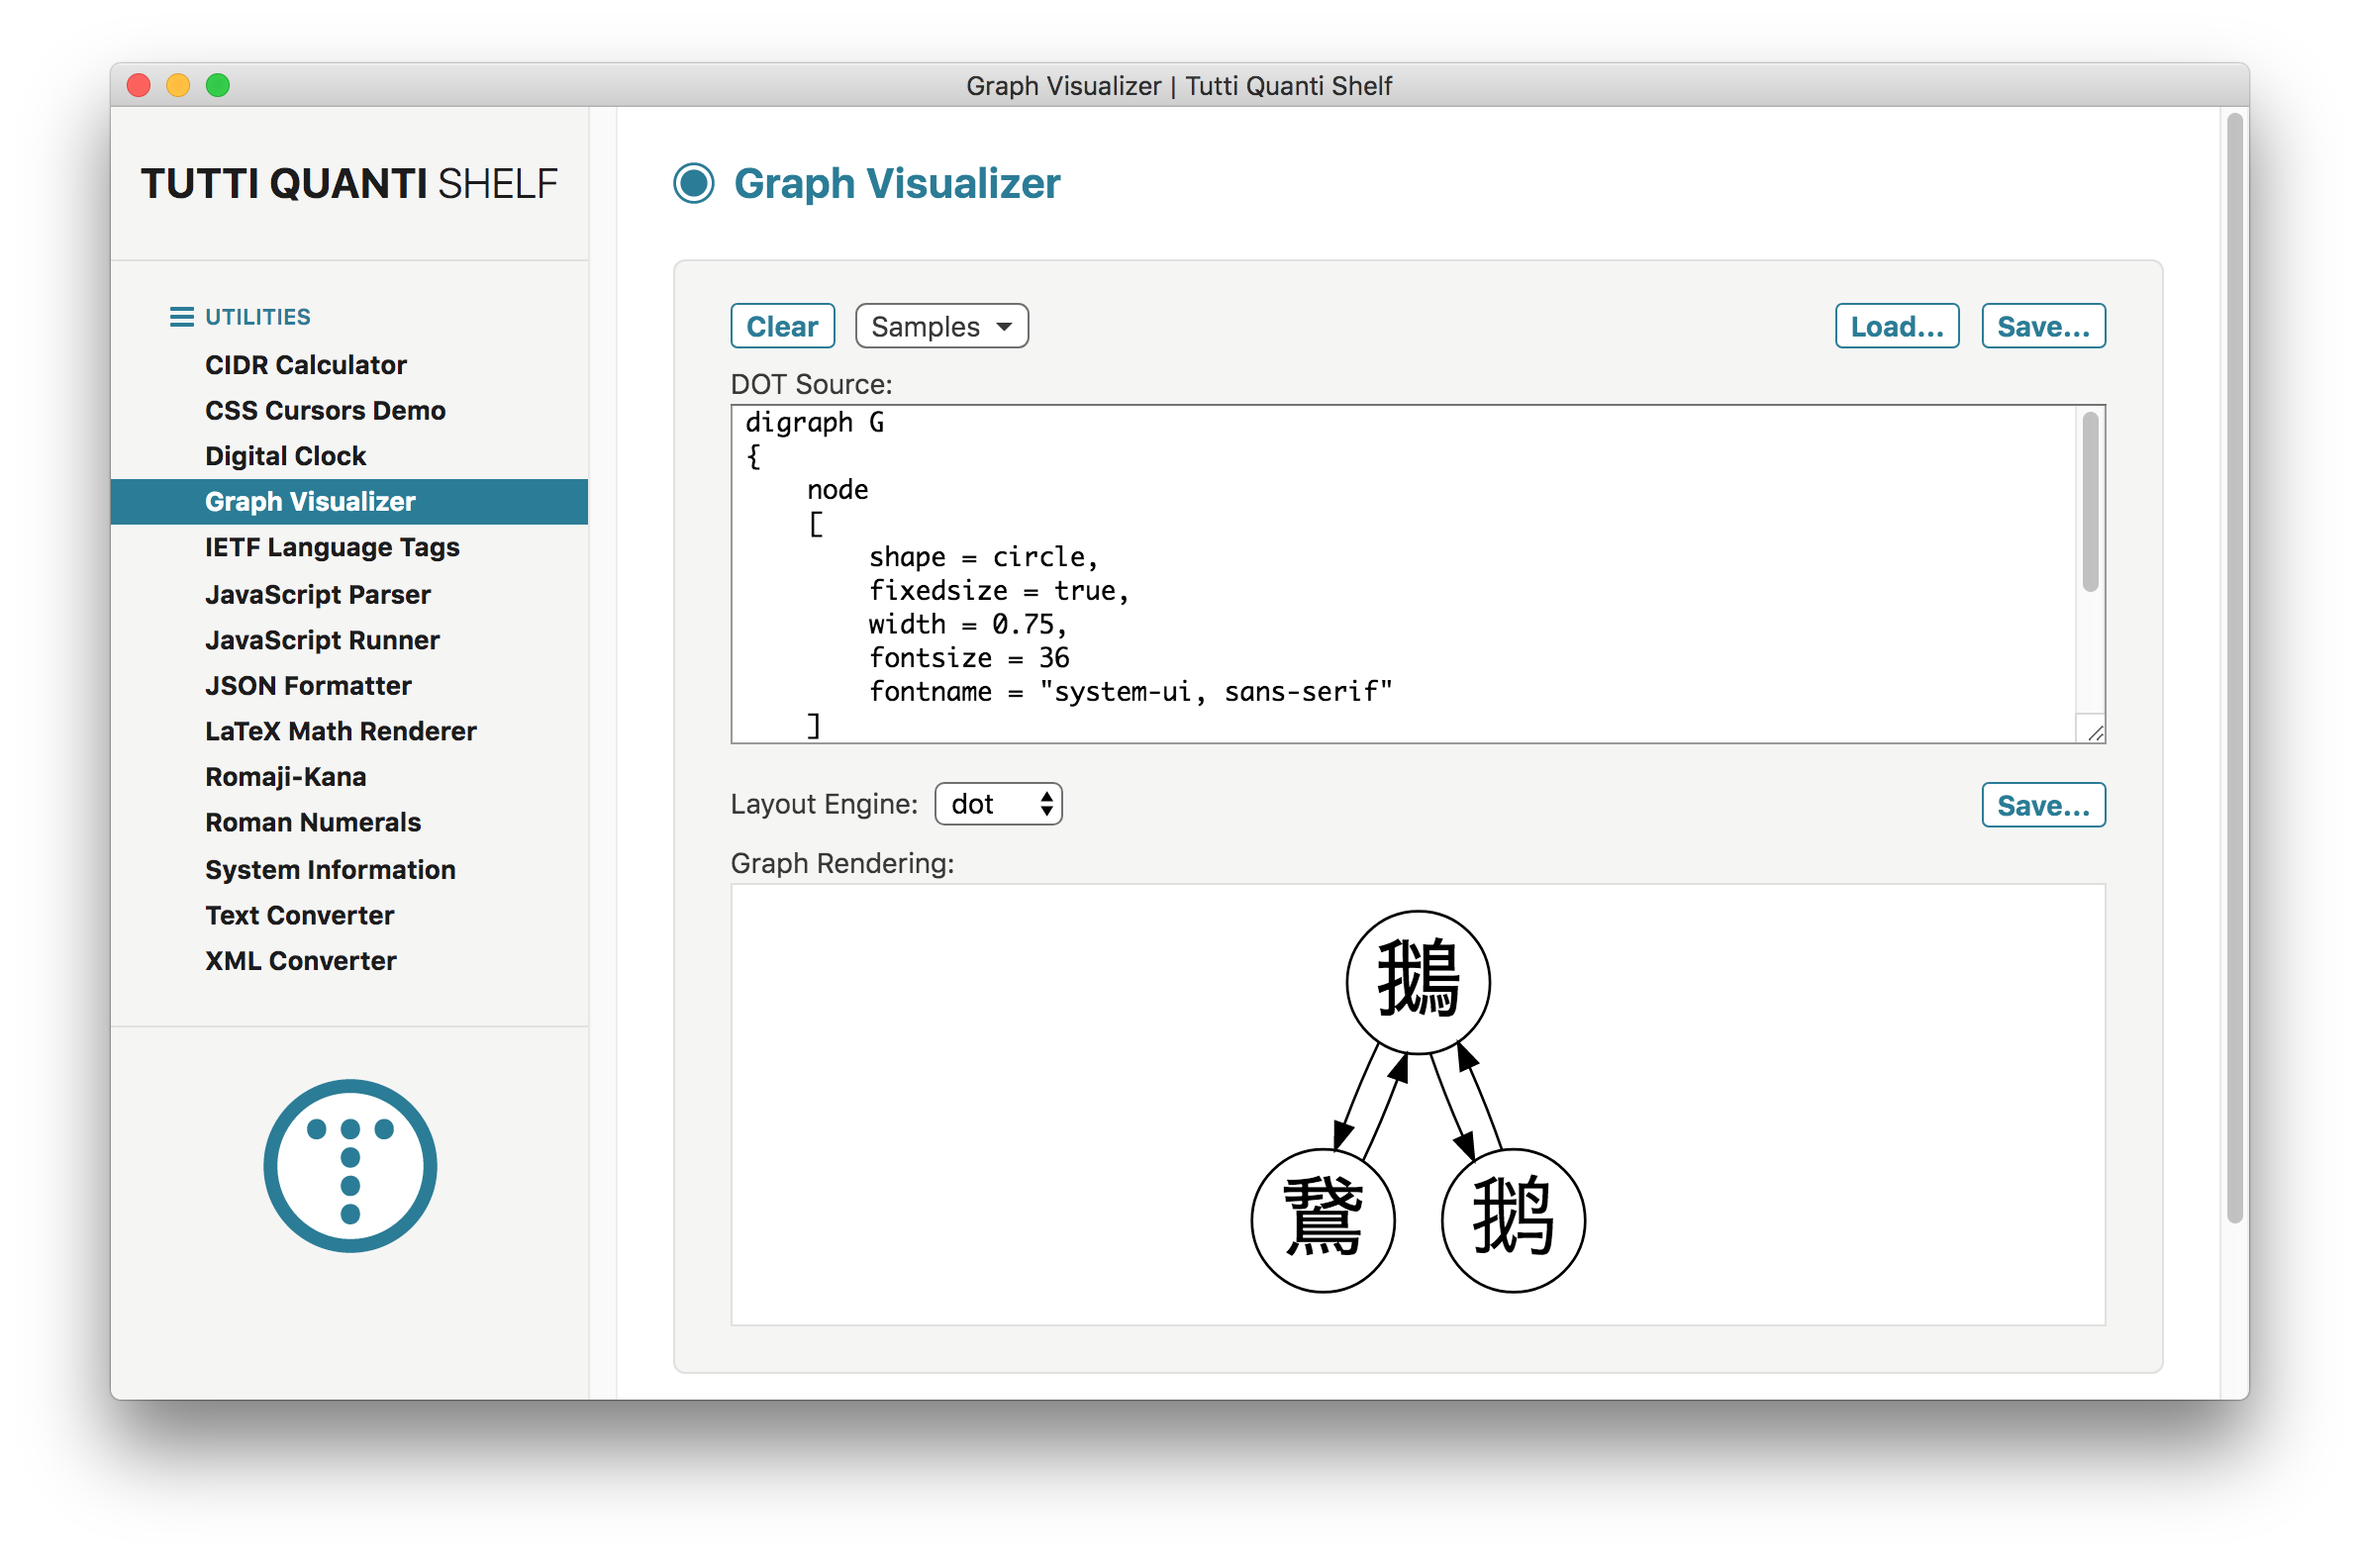
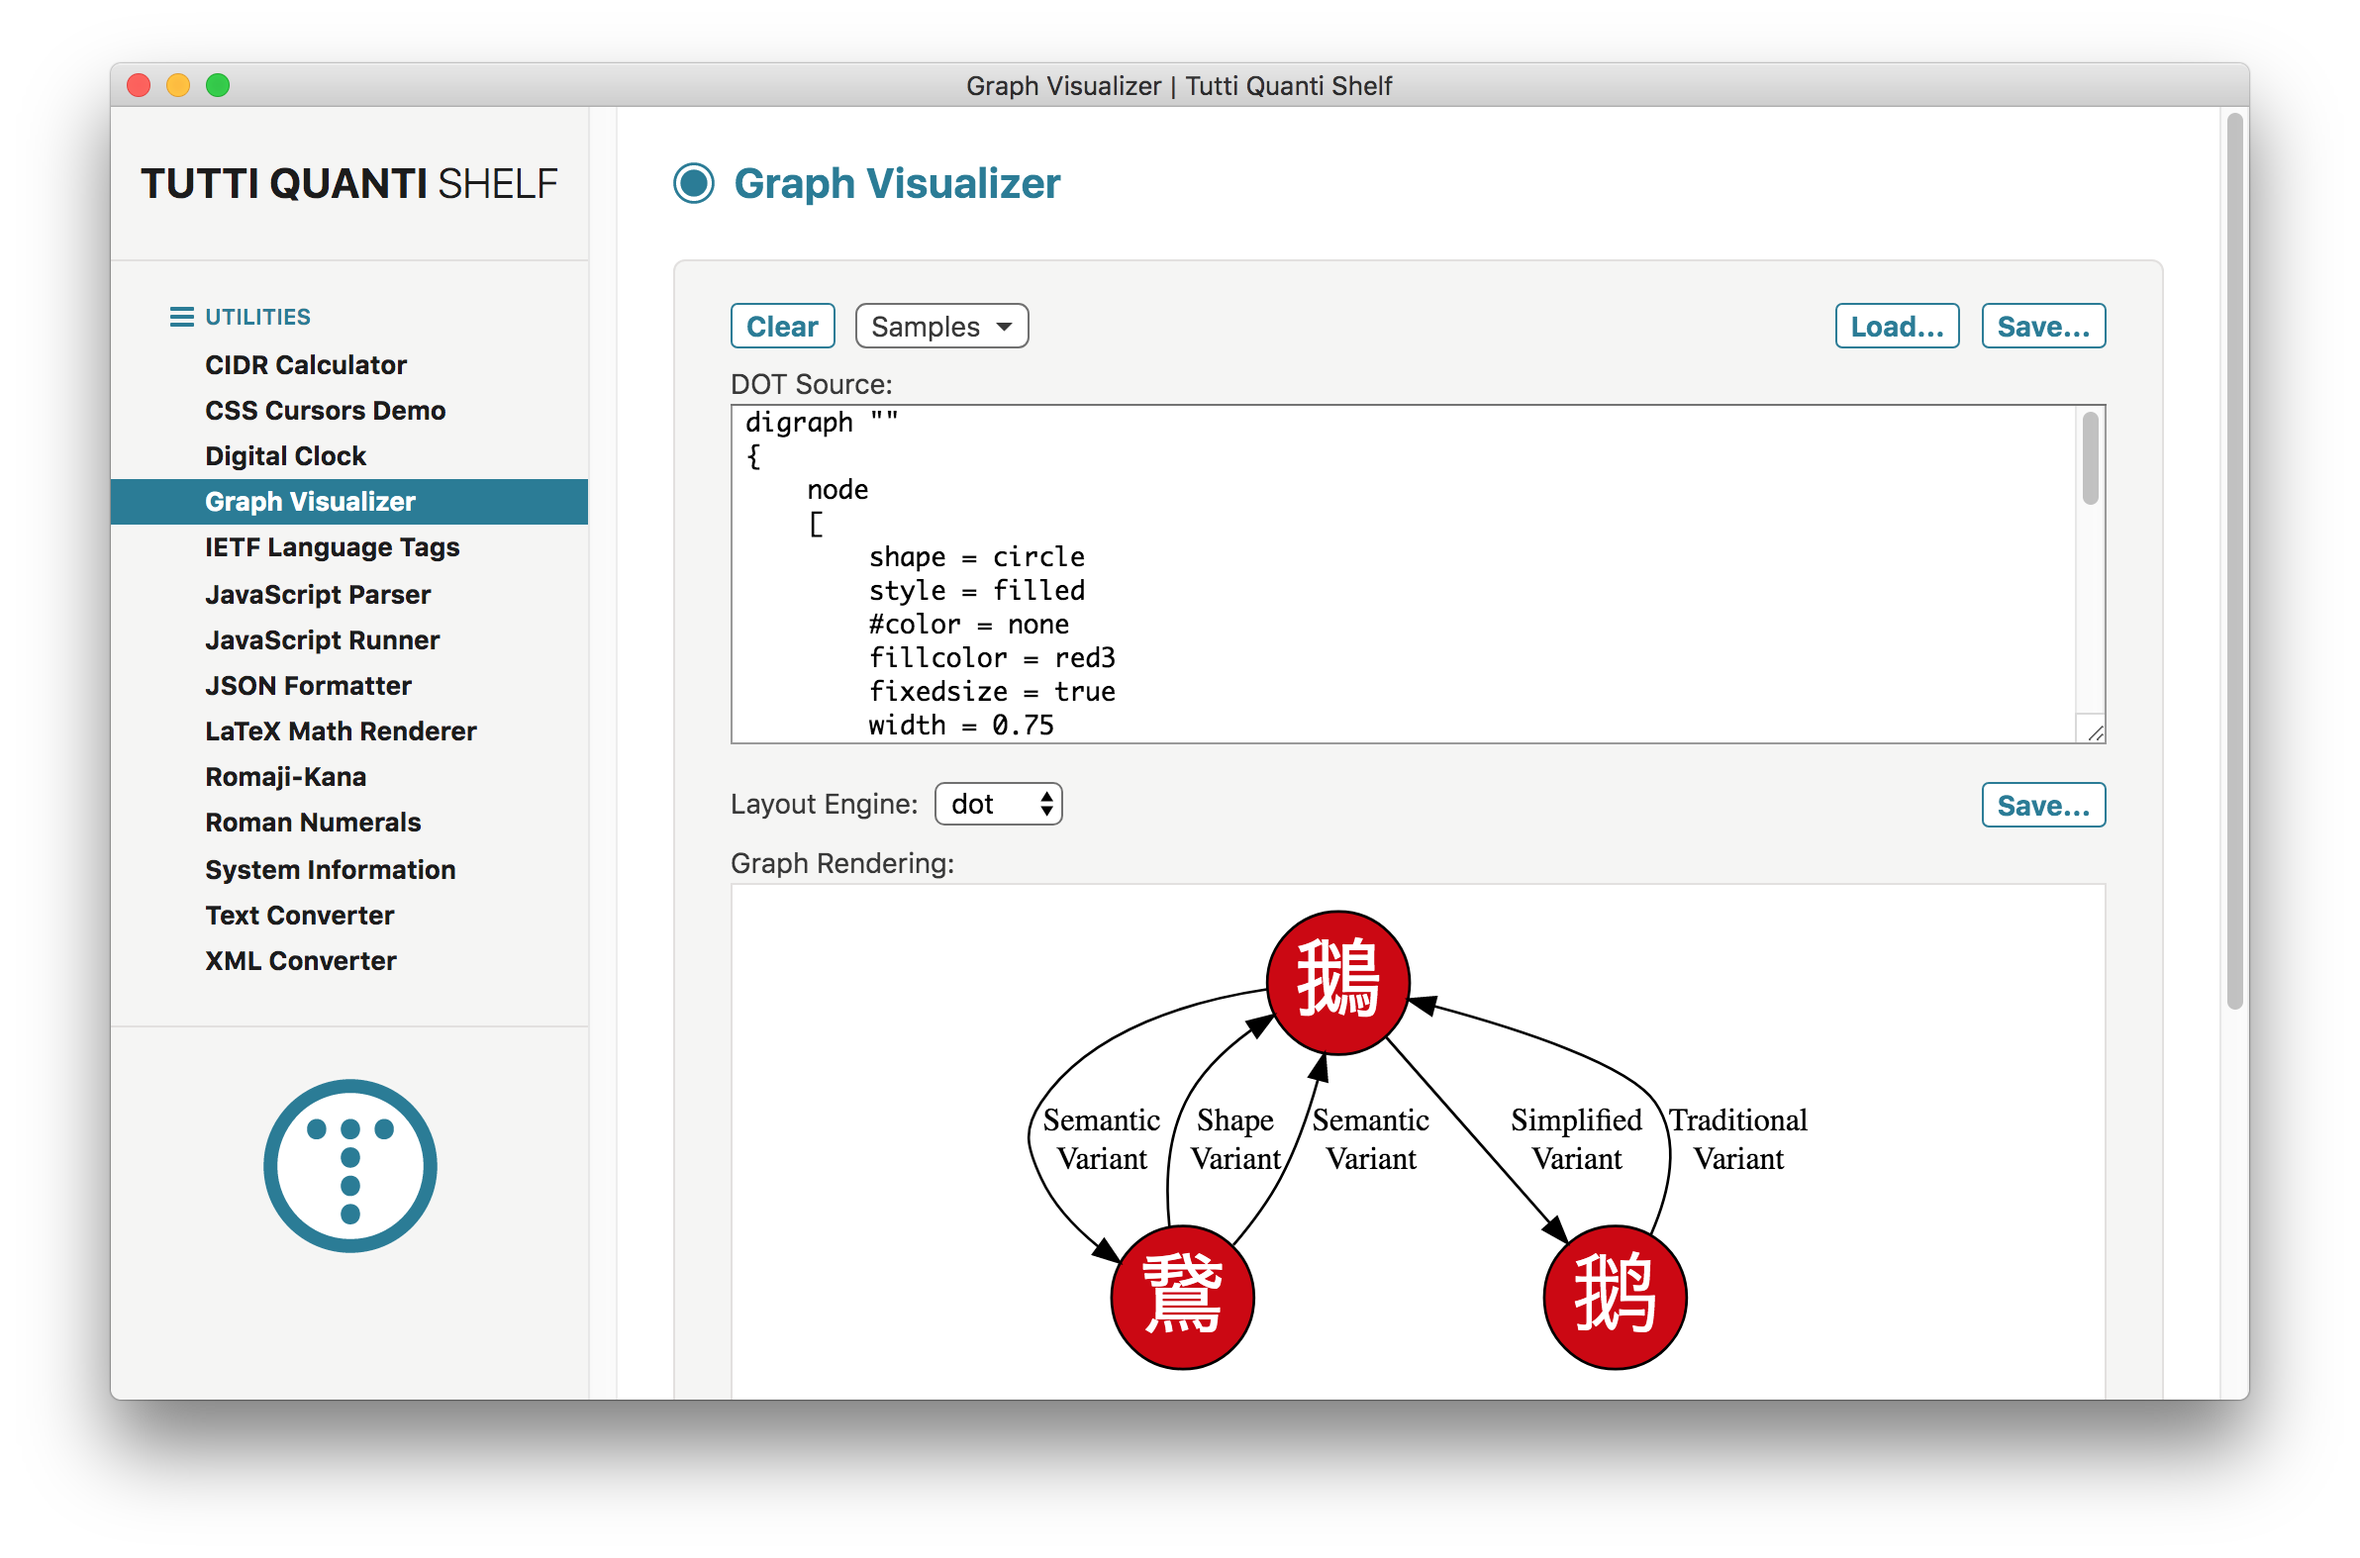
Updated app to version 1.8.1

diff --git a/renderer/units/Graph Visualizer/import.js b/renderer/units/Graph Visualizer/import.js
@@ -23,7 +23,13 @@ module.exports.start = function (context)
     const pullDownMenus = require ('../../lib/pull-down-menus.js');
     const sampleMenus = require ('../../lib/sample-menus');
     //
-    const d3 = require ('d3-graphviz');
+    // https://github.com/mdaines/viz.js/wiki/Usage
+    // https://github.com/mdaines/viz.js/wiki/Caveats
+    //
+    const Viz = require ('viz.js');
+    const { Module, render } = require ('viz.js/full.render.js');
+    //
+    let viz = new Viz ({ Module, render });
     //
     const defaultPrefs =
     {
@@ -108,26 +114,37 @@ module.exports.start = function (context)
         }
     );
     //
+    let svgResult;
+    //
     function renderGraph ()
     {
+        svgResult = "";
         saveSVGButton.disabled = true;
-        try
+        graphContainer.innerHTML = '';
+        let trimmedString = dotSource.value.trim ();
+        if (trimmedString)
         {
-            graphContainer.innerHTML = '';
-            let trimmedString = dotSource.value.trim ();
-            if (trimmedString)
+            try
             {
-                let container = d3.graphviz ('.graph-container');
-                container.engine (engineType.value).renderDot (trimmedString);
-                saveSVGButton.disabled = false;
+                viz.renderString (trimmedString, { engine: engineType.value, format: 'svg' })
+                .then (result =>
+                {
+                    svgResult = result;
+                    graphContainer.innerHTML = svgResult;
+                    saveSVGButton.disabled = false;
+                })
+                .catch (error =>
+                {
+                    viz = new Viz ({ Module, render });
+                    let paragraph = document.createElement ('p');
+                    paragraph.className = 'rendering-error';
+                    paragraph.textContent = error;
+                    graphContainer.innerHTML = paragraph.outerHTML;
+                });
             }
-        }
-        catch (e)
-        {
-            let paragraph = document.createElement ('p');
-            paragraph.className = 'rendering-error';
-            paragraph.textContent = e;
-            graphContainer.innerHTML = paragraph.outerHTML;
+            catch (e)
+            {
+            }
         }
     }
     //
@@ -155,7 +172,7 @@ module.exports.start = function (context)
                 (filePath) =>
                 {
                     defaultFolderPath = path.dirname (filePath);
-                    return graphContainer.innerHTML;
+                    return svgResult;
                 }
             );
         }

diff --git a/renderer/renderer.js b/renderer/renderer.js
@@ -504,7 +504,7 @@ document.body.addEventListener
     (event) =>
     {
         let aTag = event.target.closest ('a');
-        if (aTag)
+        if (aTag && (typeof aTag.href === 'string'))
         {
             // if (aTag.href.match (/^http(s?)\:\/\//))
             if (aTag.href.startsWith ("http://") || aTag.href.startsWith ("https://"))

diff --git a/renderer/units/Graph Visualizer/import.css b/renderer/units/Graph Visualizer/import.css
@@ -67,7 +67,6 @@
 
 #graph-visualizer-unit .graph-container
 {
-    pointer-events: none;
     min-width: 0;
 }
 
@@ -79,7 +78,6 @@
     color: var(--color-error);
     text-align: center;
     padding: 0.25em 0.5em;
-    pointer-events: auto;
     user-select: text;
 }
 
